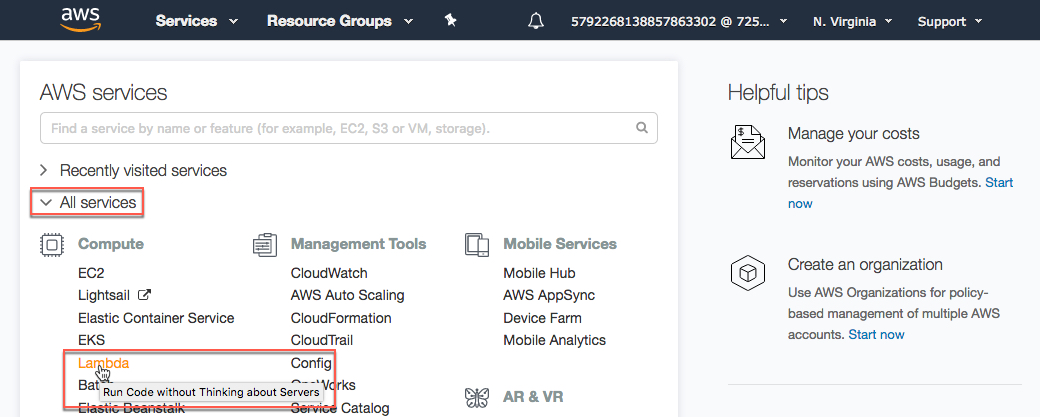
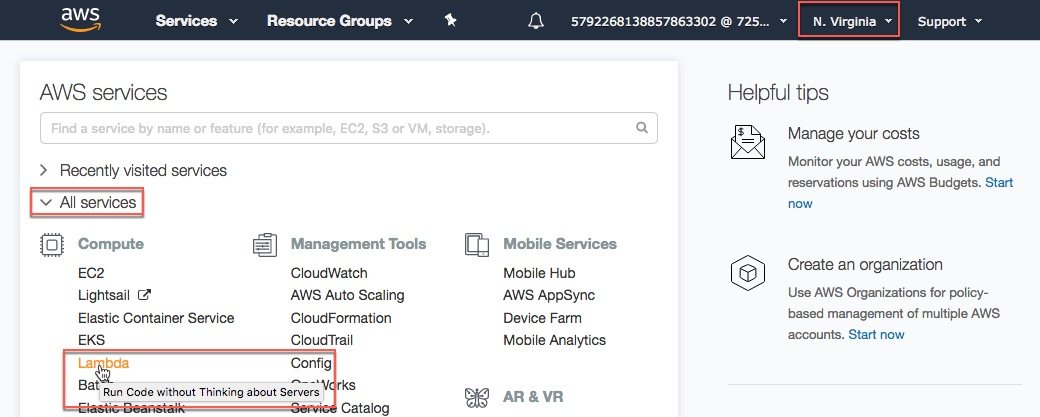
image updates, verbiage changes

diff --git a/labs/devnet-alexa-lab/3.md b/labs/devnet-alexa-lab/3.md
@@ -22,62 +22,77 @@ Package the UCS Manager Operations code with existing supporting DevNet Skill co
 
     and hit enter
 
-  Package the Code:
-
+  **Package the Code**
   ![](assets/images/image-15.jpg)<br/><br/>
 
 #### Create an S3 Bucket and Upload the Code to the Bucket
 You are storing the code for your Lambda function in S3. S3 uses the nomenclature "**bucket**" to name the place where you store files.
 
-1. Create as S3 Bucket, replace the `XX` in the command below with your **Amazon Dot number**
+1. Create as S3 Bucket, replace the `!!` in the command below with your **Amazon Echo Dot number**
 
-  - type this command
+  - type this command, be sure to replace the `!!` with your **Amazon Echo Dot number**
 
-    `aws s3 mb s3://devnet-skill-bucket-XX`
+    `aws s3 mb s3://devnet-skill-bucket-!!`
 
     and hit enter
-
 
 2. Upload your code to the S3 bucket
 
-  - type this command
+  - type this command, be sure to replace the `!!` with your **Amazon Echo Dot number**
 
-    `aws s3 cp .\devnet_skill.zip s3://devnet-skill-bucket-01`
-
-    and hit enter
-
-    The zip file is just over 17MB and will take a few moments to upload.
-
-3. Verify that the file is in the S3 Bucket
-
-  - type this command
-
-    `aws s3 ls s3://devnet-skill-bucket-01`
+    `aws s3 cp .\devnet_skill.zip s3://devnet-skill-bucket-!!`
 
     and hit enter
 
-  Make the S3 Bucket / Upload the Code / Verify the Upload:
+    The **zip file is just over 17MB** and will take a few moments to upload.
 
+3. Verify that the file is in the S3 Bucket, be sure to replace the `!!` with your **Amazon Echo Dot number**
+
+  - type this command
+
+    `aws s3 ls s3://devnet-skill-bucket-!!`
+
+    and hit enter
+
+  **Make the S3 Bucket / Upload the Code / Verify the Upload**
   ![](assets/images/image-16.jpg)<br/><br/>
 
 #### Create the Lambda Function and Connect to the Code in S3
-The Lambda function can be created now that code is in S3. **Almost** all the steps to create the Lambda function can be done from the command line.
+The Lambda function can be created, now that code is in S3. **Almost** all the steps to create the Lambda function can be done from the command line.
 
-You'll run the command to create the Lambda function and connect it to the code in the S3 bucket. Then you will login into AWS and finish the Lamdba function creation from the AWS web interface.
+You'll use the command to create the Lambda function and connect it to the code in the S3 bucket. Then you will login into AWS and finish the Lambda function creation from the AWS web interface.
 
 1. Create the Lambda function and connect it to the code in S3
 
-  - type this command, you need to replace the `0.0.0.0` IP address as the very end of the command with your UCS Manager IP Address.
+  The command to create the Lambda function is long, it is shown in the box below. **You need to make THREE CHANGES to the command**.
 
-    For example if your UCS Manager IP Address is `128.107.70.143` then the last line of the command need to look as follows
+  - **You need to replace** the `!!` in the **function name** with your **Amazon Echo Dot number**
+
+  - **You need to replace** the `!!` in the **S3 bucket name** with your **Amazon Echo Dot number**
+
+  - **You need to replace** the `0.0.0.0` IP address at the very end of the command **with your** UCS Manager IP Address.
+
+    For example if your UCS Manager IP Address is `128.107.70.143` then the end of the command needs to look as follows:
 
     `--environment Variables="{UCSMHOST=128.107.70.143}"`
 
+  - type this command, **Remember to make the changes listed above before hitting enter!**
+
     ```code
-    aws lambda create-function --function-name "devnet-01" --runtime "python2.7" --handler "devnet_skill.lambda_handler" --timeout 30 --role "arn:aws:iam::725313967062:role/lambda-execute-role" --code S3Bucket="devnet-skill-bucket-01",S3Key="devnet_skill.zip" --environment Variables="{UCSMHOST=0.0.0.0}"
+    aws lambda create-function --function-name "devnet-!!" --runtime "python2.7" --handler "devnet_skill.lambda_handler" --timeout 30 --role "arn:aws:iam::725313967062:role/lambda-execute-role" --code S3Bucket="devnet-skill-bucket-!!",S3Key="devnet_skill.zip" --environment Variables="{UCSMHOST=0.0.0.0}"
     ```
 
-    and hit enter
+      and hit enter
+
+    **Don't Panic**
+
+    - If you hit enter and the command failed, you probably didn't replace the `!!` with your **Amazon Echo Dot number**. The `!!` in a Lambda function name are not allowed, that's probably why the command failed.
+
+    - If you hit enter or the command automatically executed and you did not change the IP Address and the command was successful you'll need to delete the function that was just created and run the creation again.
+
+    To delete the created lambda function and try the creation command again, type this command, replace the `!!` with the `--function-name` name with the name you gave your function. In the example below `devnet-10` is shown as the function name.
+
+    `aws lambda delete-function --function-name devnet-10`
 
   Here's a brief explanation about the parameters to the command
 
@@ -95,12 +110,11 @@ You'll run the command to create the Lambda function and connect it to the code 
 
   - `--environment Variables={UCSMHOST=0.0.0.0}` - is the way you indicate the IP address of you UCS Manager
 
-  Create the Lambda Function:
-
+  **Create the Lambda Function**
   ![](assets/images/image-17.jpg)<br/><br/>
 
 #### Complete the Lambda Function Creation
-Login to [Amazon Web Services](https://725313967062.signin.aws.amazon.com/console) use this link, it points to an organization specifically created for this lab
+Login to [Amazon Web Services](https://725313967062.signin.aws.amazon.com/console) use this link, it points to an organization specifically created for this lab.
 
 1. Sign in using the credentials that you have been supplied with for this lab.
 
@@ -110,8 +124,7 @@ Login to [Amazon Web Services](https://725313967062.signin.aws.amazon.com/consol
 
   - ***Click*** the "Sign In" Button
 
-  Sign In to AWS:
-
+  **Sign In to AWS**
   ![](assets/images/image-18.jpg)<br/><br/>
 
 2. Select the Lambda Services
@@ -120,9 +133,13 @@ Login to [Amazon Web Services](https://725313967062.signin.aws.amazon.com/consol
 
     ![](assets/images/image-19.jpg)<br/><br/>
 
-3. Select the Lambda Function
+    Ensure that you are in the "**N. Virginia**" region. This is where your function was created. The region is shown on the right-hand side in the top navigation bar.
 
-  - ***Click*** the `devnet-01` function
+    If any other region is showing you **will not** see your lambda function!
+
+3. Select the Lambda Function, remember your **Amazon Echo Dot number** will be in the function name and **not** `!!`
+
+  - ***Click*** the `devnet-!!` function
 
     ![](assets/images/image-20.jpg)<br/><br/>
 

diff --git a/labs/devnet-alexa-lab/1.md b/labs/devnet-alexa-lab/1.md
@@ -15,12 +15,11 @@ First let's go over the resources you are going to be using
 
   - Amazon Echo Dot
 
-    - The Echo is a physical device connected to the Internet.  It listens for its wake word, typically "Alexa", but the wake word could also be "Amazon", "Computer", or "Echo". Your Echo's wake word is 'Alexa'. When the wake word is heard the Echo goes into "listen" mode and awaits your request.
+    - The Echo is a physical device connected to the Internet. It listens for its wake word, typically "Alexa", but the wake word could also be "Amazon", "Computer", or "Echo". Your Echo's wake word is 'Alexa'. When the wake word is heard the Echo goes into "listen" mode and awaits your request.
 
     - Once your request is heard, somewhere in the AWS cloud gears start to turn, and, if possible, your request is fulfilled. When you are finished with this lab you will have put in place those gears of request fulfillment.
 
-      Amazon Echo Dot:
-
+      **Amazon Echo Dot**
       ![](assets/images/image-01.jpg)<br/><br/>
 
   - AWS Services - Amazon Web Services are Services that provide a place to store and run the Python code
@@ -29,24 +28,21 @@ First let's go over the resources you are going to be using
 
     - S3 - Simple Storage Service, it's basically a Hard-Drive in the cloud, this is where your Alexa Skill code is stored, that's the Python code mentioned earlier.
 
-      AWS Services:
-
+      **AWS Services**
       ![](assets/images/image-02.jpg)<br/><br/>
 
   - AWS CLI - The AWS Command Line Interface (CLI) provides commands for you to interact with AWS right at the command line on your computer.
 
     - For example, the command 'ls' lists the contents of a directory on Linux. In the AWS CLI the command 'aws s3 ls' lists the contents of your S3 storage (remember it's just a hard-disk in the cloud)
 
-      AWS CLI:
-
+      **AWS CLI**
       ![](assets/images/image-03.jpg)<br/><br/>
 
   - Amazon Developer Portal - The Amazon Developer Portal is where you create your Alexa Skill.
 
     - Creating an Alexa Skill consists of defining the utterances (spoken phrases) that get tuned into triggers (requests) to make your code stored in S3 execute as a Lambda function.
 
-      Amazon Developer Portal:
-
+      **Amazon Developer Portal**
       ![](assets/images/image-04.jpg)<br/><br/>
 
 Remember, that the code was already written, you are going to need to use some programming tools to get the code ready to run as a Lambda function, these tools are:
@@ -55,16 +51,14 @@ Remember, that the code was already written, you are going to need to use some p
 
     - The code for this lab is stored in a github repository or 'repo' at https://github.com/movinalot/devnet-alexa.
 
-    DevNet Alexa Skill Git Repository:
-
-    ![](assets/images/image-05.jpg)<br/><br/>
+      **DevNet Alexa Skill Git Repository**
+      ![](assets/images/image-05.jpg)<br/><br/>
 
     - All the code you need is in that 'repo' and you'll use 'git' to get a copy if it.
 
   - Python - [Python](https://www.python.org/) is a programming language
 
-      Python Programming Language:
-
+      **Python Programming Language**
       ![](assets/images/image-06.jpg)<br/><br/>
 
   - Python Programming tools
@@ -88,8 +82,7 @@ There are three interfaces that you'll use, you don't have to launch them yet. I
   - The UCS Manager interface - http://128.107.70.141
     - This is where you'll see your requests carried out.
 
-      Python Programming Language:
-
+      **Python Programming Language**
       ![](assets/images/image-07.jpg)<br/><br/>
 
 Now that the pieces are explained the first step is to create the environment where you will build your Alexa DevNet Skill.

diff --git a/labs/devnet-alexa-lab/2.md b/labs/devnet-alexa-lab/2.md
@@ -34,8 +34,7 @@ These steps will setup your environment and get you ready to put together your D
 
   You just **cloned** (copied) code to your computer from **github.com** This is the code that will run in AWS in the Lambda service when your voice request triggers it
 
-  Get the Skill Code:
-
+  **Get the Skill Code**
   ![](assets/images/image-09.jpg)<br/><br/>
 
 #### Make and Activate a Virtual Environment
@@ -79,8 +78,7 @@ These steps will setup your environment and get you ready to put together your D
 
     Your prompt will now have a "**(venv)**" prefix. This prefix lets you know that you are in a virtual environment.
 
-  Make and Activate a Virtual Evironment:
-
+  **Make and Activate a Virtual Environment**
   ![](assets/images/image-10.jpg)<br/><br/>
 
 #### Install the AWS CLI and Configure AWS Credentials
@@ -96,8 +94,7 @@ These steps will setup your environment and get you ready to put together your D
 
     There will be a significant amount of output from this command.
 
-  Install AWS CLI:
-
+  **Install AWS CLI**
   ![](assets/images/image-11.jpg)<br/><br/>
 
 2. Configure your AWS Credentials, default AWS region and output format. These setting allow you to interact with the AWS services without having to continually enter your credentials or specify region or output format.
@@ -109,27 +106,22 @@ These steps will setup your environment and get you ready to put together your D
     and hit enter
 
     - enter your AWS Access Key ID - `AKIAISJCICCZVZ4P3GAA`
-
-      This is a ***sample*** AWS Access Key ID
+      <br>The *AWS Access Key ID* shown above is a ***sample***. **Your** *AWS Access Key ID* is shown in the lab information panel.
 
     - enter your AWS Secret Access Key - `MNmwBfJCmnJN402Fnw+WZCca/YCH8YdwCt6K9caM`
-
-      This is a ***sample*** AWS Secret Access Key
+    <br>The *AWS Secret Access Key* shown above is a ***sample***. **Your** *AWS Secret Access Key* is shown in the lab information panel.
 
     - enter your Default region name - `us-east-1`
-
-      This is the ***actual*** value you need to enter
+      <br>This is the ***actual*** value you need to enter
 
     - enter your Default output format - `json`
+      <br>This is the ***actual*** value you need to enter
 
-      This is the ***actual*** value you need to enter
-
-  Configure Your AWS Credentials:
-
+  **Configure Your AWS Credentials**
   ![](assets/images/image-12.jpg)<br/><br/>
 
 #### What You Have Done So Far!
-Good job so far!  Here's what you've done.
+Good job so far! Here's what you've done.
 
 - You **created** a directory for all your work called "**alexa**"
 

diff --git a/labs/devnet-alexa-lab/4.md b/labs/devnet-alexa-lab/4.md
@@ -11,15 +11,15 @@ To get to this point you
 
   - You created the Lambda function and added an Alexa Skill trigger.
 
-1. Login to [developer.amazon.com](https://developer.amazon.com/alexa?) and create the skill.
+1. Login to [developer.amazon.com](https://developer.amazon.com) and create the skill.
 
-  Sign in using the credentials that you have been supplied with for this lab, `XX` represents your Amazon Dot number.
+  Sign in using the credentials that you have been supplied with for this lab, `!!` represents your **Amazon Echo Dot number**.
 
   - ***Click*** the "Sign In" Button
 
-  - email - `devnetuseralexXX@cisco.com`
+  - email - `devnetuseralex!!@cisco.com`
 
-  - Password - `xxxxxxxxxxxxxxxxxxx`
+  - Password - `XXXXXXXXXXXXXXXXXXXXX`
 
   - ***Click*** on "Sign In" in the upper-right corner
 
@@ -69,7 +69,7 @@ To get to this point you
 
     This is the name you'll say when invoking your skill. I. e. your requests will start with the phrase "Alexa ask devnet..."
 
-    Next you'll add an "**Intent**" and define an utterance the is tied to that "**Intent**"
+    Next you'll add an "**Intent**" and define an utterance that is tied to that "**Intent**"
 
   - ***Click*** "+ Add" in the left-hand column, next to the label *Intents(4)*
 
@@ -188,13 +188,15 @@ With the model built you can specify an "Endpoint" that the Alex Skill will use 
 
     ![](assets/images/image-46.jpg)<br/><br/>
 
-3. Copy the Lambda function ARN (Amazon Resource Number) from the Lambda function page on AWS. If your session at aws.amazon.com has timed out [use this link to log back in](https://725313967062.signin.aws.amazon.com/console)
+3. Copy the Lambda function ARN (Amazon Resource Number) from the Lambda function page on AWS. If your session at aws.amazon.com has timed out [use this link to log back in](https://725313967062.signin.aws.amazon.com/console) it points to an organization specifically created for this lab.
 
   - ***Select*** and copy the Lambda ARN
 
     ![](assets/images/image-47.jpg)<br/><br/>
 
   - ***Paste*** the Lambda ARN into the "Default Region" *field*
+
+  - ***Click*** the "Save Endpoints" button
 
     ![](assets/images/image-48.jpg)<br/><br/>
 

diff --git a/labs/devnet-alexa-lab/5.md b/labs/devnet-alexa-lab/5.md
@@ -7,7 +7,7 @@ You are going to utilize the UCS Manager interface to view the requests you make
 
 #### Launch UCS Mangager
 
-1. Browse to the IP Address or your UCS Manager
+1. Open a new browser tab and browse to the IP Address or your UCS Manager
 
   - ***Click*** the "Launch UCS Manager" button
 
